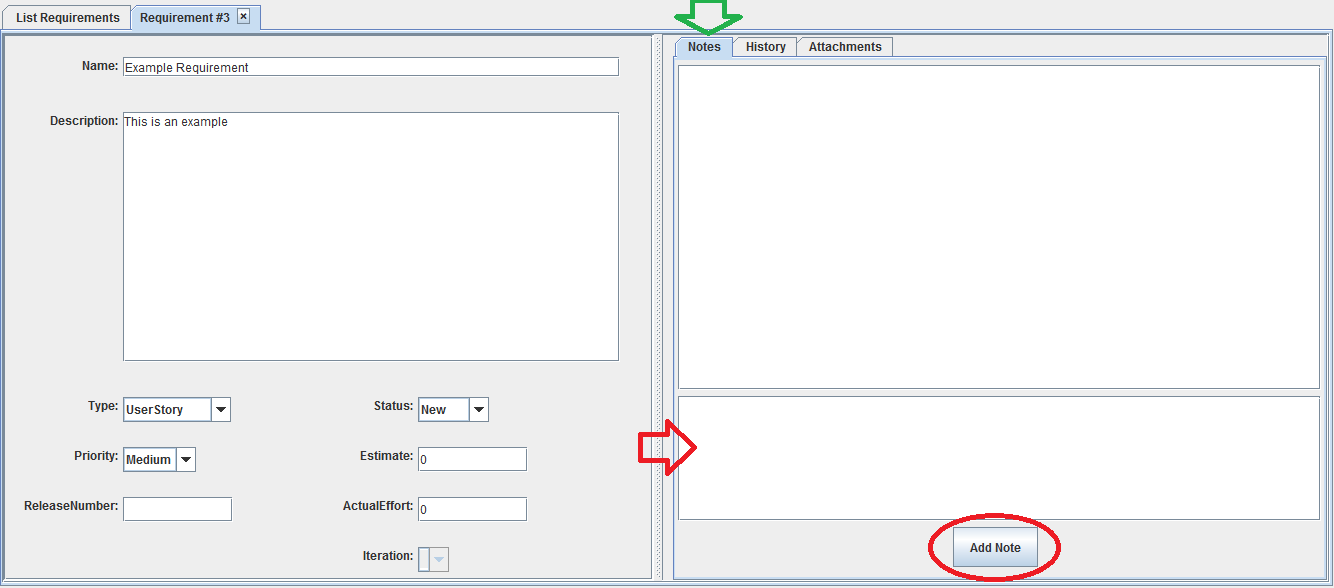
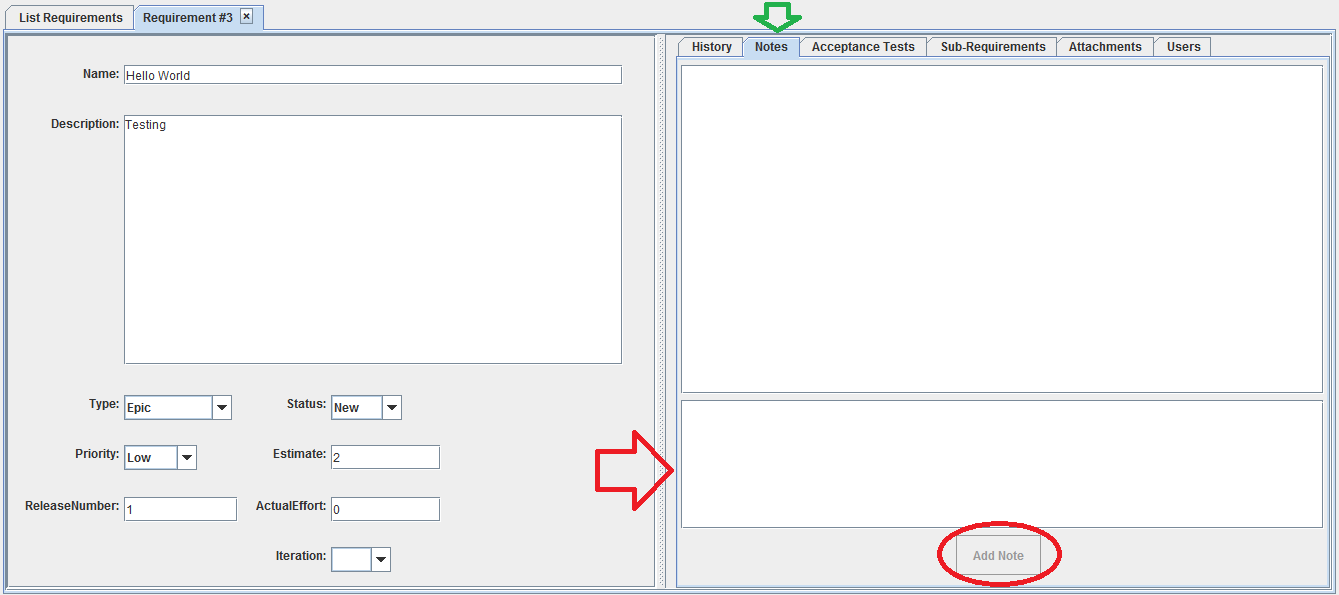
userManual updates
--another gif!

Changed region(s): [[0.0, 0.0, 1.0, 1.0], [0.0615, 0.0918, 0.461, 0.1531], [0.2151, 0.6429, 0.3688, 0.7959]]

diff --git a/Janeway/RequirementManagerUserManualWebsite/JavaScript/ChangeInformation.js b/Janeway/RequirementManagerUserManualWebsite/JavaScript/ChangeInformation.js
@@ -33,7 +33,12 @@ function changePage(str){
         AddingANote();
 	else if (str.toString() == "deleteReqPage")
         DeleteReqPage();
-	
+	else if (str.toString() == "addingUsers")
+		AddingUsers();
+	else if (str.toString() == "checkHistory")
+		CheckHistory();
+	else if (str.toString() == "addingATest")
+		AddingATest();
 		
 	else if (str.toString() == "filterListPanel")
 		FilterListPanel();
@@ -65,7 +70,7 @@ function RequirementOverview(){
 		$(".instructionTitle").html('<a>The Requirement Manager Tab</a>');
 		$(".instructionText").html(function (){
 			var str = '<img width="750" src="images/mainPanel.png"/><br />';
-			str += 'The above image show the requirement manager in full. This section of the user manual will focus on the creation and management of requirements. Further sections will focus on the rest of our requirement manager, including Filters and Iterations'
+			str += 'The above image shows the requirement manager in full. This section of the user manual will focus on the creation and management of requirements. Further sections will focus on the rest of our requirement manager, including Filters and Iterations'
 			return str;
 		});
 	});
@@ -222,6 +227,48 @@ function CreateDeleteFilter(){
 			var str = '<a>To create a filter, first click the "New Filter" button located at the bottom of the Filter List Panel. Once clicked, the elements in the Filter Builder Panel will become active. You can create a filter with the type, operator, and value. Then hit the "Create" button. The filter will then appear on the left Filter List Panel.</a>';
 			str += '<br /><br /><a>You can then edit the filter by double clicking on it. It opens in the Filter Builder Panel. You can edit the filter accordingly. If you did not mean to create or edit a requirement you can click the "Cancel" button on the bottom of the Filter List Panel. </a>';
 			str += '<br /><br /><a>To delete a filter, simply double click the filter and click the "Delete" button. If you do not want to permanently delete the filter, you can double click the filter. The filter will open in the Filter Builder Panel, and you can change the filter from "Active" to "Inactive."</a>';
+			return str;
+        });
+    });
+}
+
+function AddingUsers(){
+	$(document).ready(function () {
+        //change where next and previous values point, do in a function
+        $(".moveTabs").html('<a class="title">How to Assign a User to a Requirement</a>');
+		$(".instructionTitle").html('<a>The User Assignment Panel</a>');
+        $(".instructionText").html(function(){
+			var str = '<img src="images/Users.gif" height="400"/><br />';
+			str += '<a>To add a user to a requirement you must start with an existing requirement. In the right hand panel, where you find history, notes and acceptance Tests, select the tab that says user. Within that tab you will find a list of users currently in the database. Select the user you wish to assign to the requirement then click the "Add Users ->" button to assign the user to the current requirement.<a/><br/><br/>';
+			str += '<a>To remove a user from a requirement, follow the same instructions as for adding a user, but starting from the left of the user panel. That is: Select an assigned user you wish to unassign; click the "<- Remove Users" button; And the user will have been unassigned.</a>'
+			return str;
+        });
+    });
+}
+
+function CheckHistory(){
+	$(document).ready(function () {
+        //change where next and previous values point, do in a function
+        $(".moveTabs").html('<a class="title">How to Check Requirement History</a>');
+		$(".instructionTitle").html('<a>The Requirement History Panel</a>');
+        $(".instructionText").html(function(){
+			var str = '<img src="images/requirementBuilderWithHistory.png" height="400"/><br/>';
+			str += '<a>To view a requirements history of changes, simply select the History tab from the panel on the right of the requirement builder view. From this history tab you can view all changes made to this requirement since it\'s creation.</a>';
+			return str;
+        });
+    });
+}
+
+function AddingATest(){
+	$(document).ready(function () {
+        //change where next and previous values point, do in a function
+        $(".moveTabs").html('<a class="title">How to Add an Acceptance Test</a>');
+		$(".instructionTitle").html('<a>The Acceptance Test Panel</a>');
+        $(".instructionText").html(function(){
+			var str = '<img src="images/requirementBuilderWithTests.png" height="400"/><br/>';
+			str += '<a>To add an acceptance test, you must first select the acceptance test tab from the right side of the requirement builder panel.  Then you must enter a name and description into the provided boxes. After a name and descrption have been entered, you can click the "Add Acceptance Test" button to add the test to the requirement</a><br/><br/>';
+			str += '<img src="images/enteredTest.png" height="100" /><br/>';
+			str += '<a>The test will appear in the Panel above where you entered information, but a drop down menu to select if the requirement passed of failed the test.</a>';
 			return str;
         });
     });
